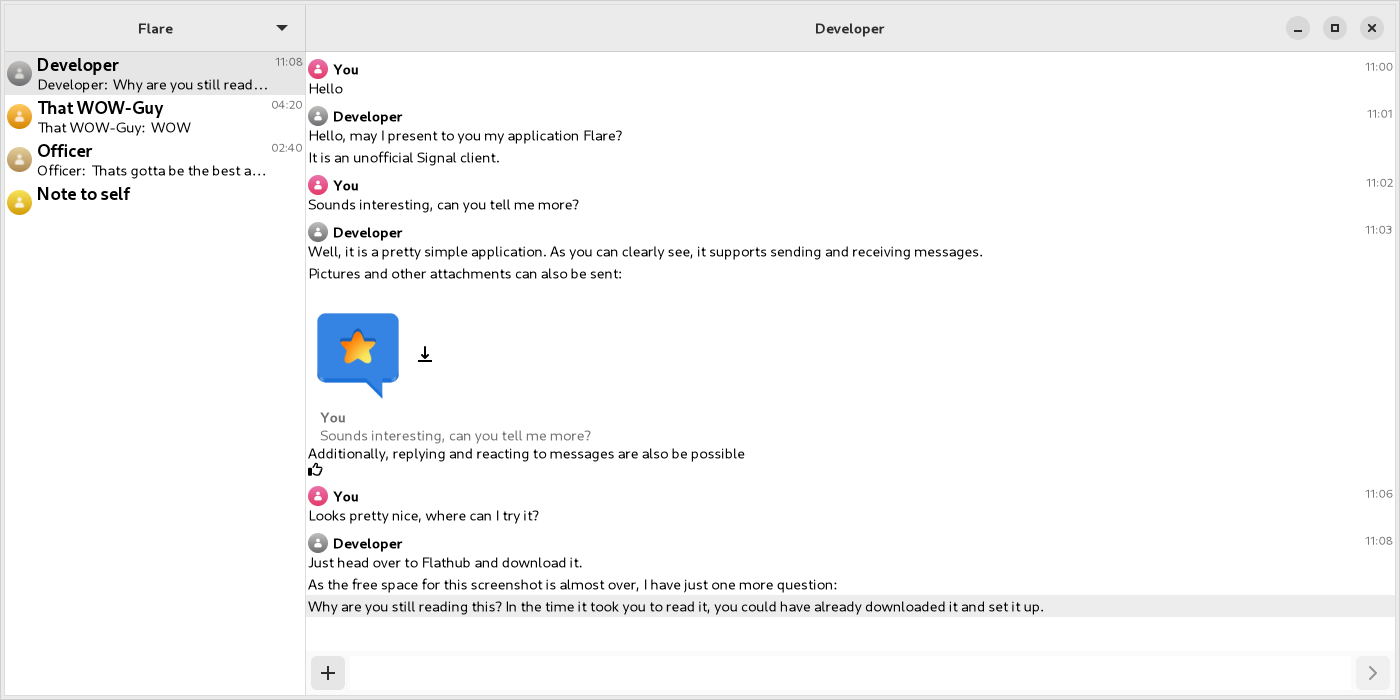
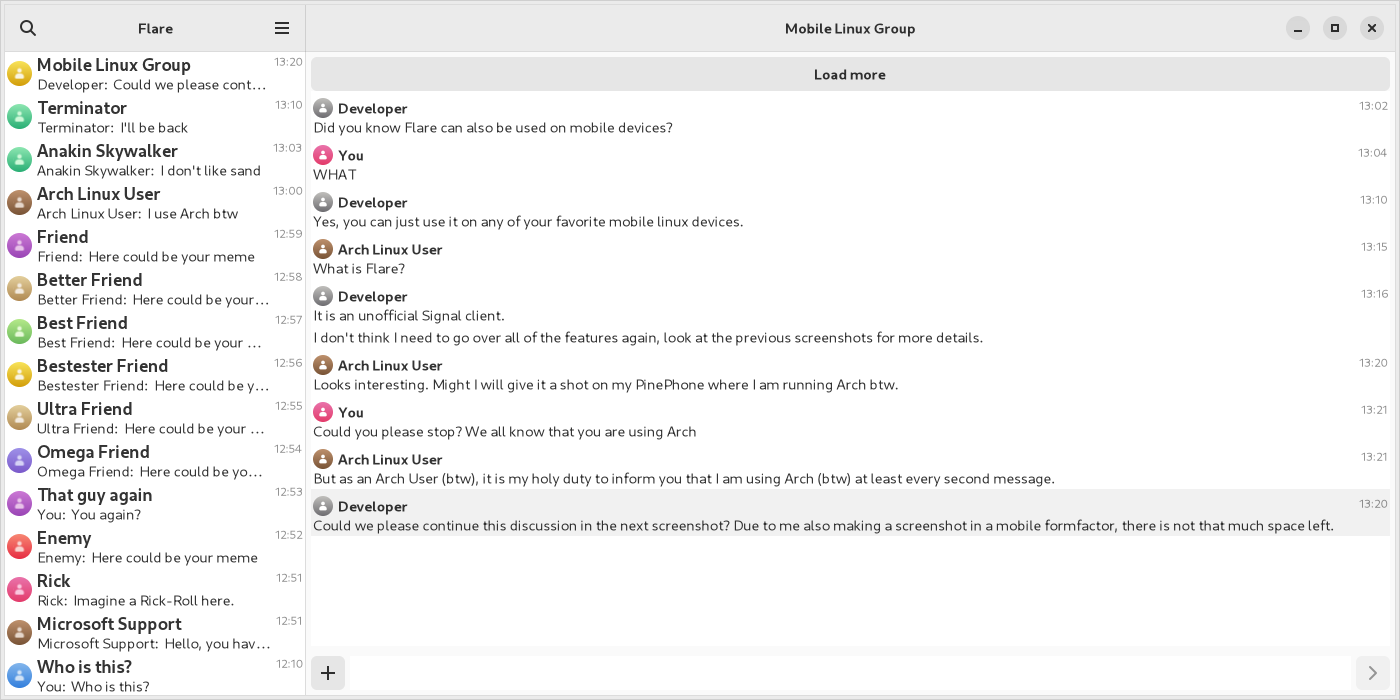
doc(): New screenshot

diff --git a/src/backend/dummy.rs b/src/backend/dummy.rs
@@ -2,10 +2,12 @@ use std::path::Path;
 
 use gdk::{prelude::ObjectExt, subclass::prelude::ObjectSubclassIsExt};
 use presage::prelude::*;
-use libsignal_service::sender::AttachmentUploadError;
+use libsignal_service::{prelude::AttachmentPointer, sender::AttachmentUploadError, groups_v2::Group};
 use glib::DateTime;
 
 use super::{Channel, Contact, Message};
+
+const GROUP_ID: usize = 16;
 
 macro_rules! msg {
     ($s:expr, $m:expr, $i:expr, $j:expr, $t:expr) => {
@@ -46,7 +48,7 @@ pub fn dummy_presage_contacts() -> Vec<presage::prelude::Contact> {
                 phonenumber: None,
                 relay: None,
             },
-            name: "Developer".to_string(),
+            name: "Arch Linux User".to_string(),
             color: None,
             verified: Default::default(),
             profile_key: vec![],
@@ -62,7 +64,7 @@ pub fn dummy_presage_contacts() -> Vec<presage::prelude::Contact> {
                 phonenumber: None,
                 relay: None,
             },
-            name: "Officer".to_string(),
+            name: "Developer".to_string(),
             color: None,
             verified: Default::default(),
             profile_key: vec![],
@@ -78,7 +80,199 @@ pub fn dummy_presage_contacts() -> Vec<presage::prelude::Contact> {
                 phonenumber: None,
                 relay: None,
             },
-            name: "That WOW-Guy".to_string(),
+            name: "Anakin Skywalker".to_string(),
+            color: None,
+            verified: Default::default(),
+            profile_key: vec![],
+            blocked: false,
+            expire_timer: 0,
+            inbox_position: 0,
+            archived: false,
+            avatar: None,
+        },
+        presage::prelude::Contact {
+            address: presage::prelude::ServiceAddress {
+                uuid: Some(Uuid::from_u128(4)),
+                phonenumber: None,
+                relay: None,
+            },
+            name: "Terminator".to_string(),
+            color: None,
+            verified: Default::default(),
+            profile_key: vec![],
+            blocked: false,
+            expire_timer: 0,
+            inbox_position: 0,
+            archived: false,
+            avatar: None,
+        },
+        presage::prelude::Contact {
+            address: presage::prelude::ServiceAddress {
+                uuid: Some(Uuid::from_u128(5)),
+                phonenumber: None,
+                relay: None,
+            },
+            name: "Friend".to_string(),
+            color: None,
+            verified: Default::default(),
+            profile_key: vec![],
+            blocked: false,
+            expire_timer: 0,
+            inbox_position: 0,
+            archived: false,
+            avatar: None,
+        },
+        presage::prelude::Contact {
+            address: presage::prelude::ServiceAddress {
+                uuid: Some(Uuid::from_u128(6)),
+                phonenumber: None,
+                relay: None,
+            },
+            name: "Better Friend".to_string(),
+            color: None,
+            verified: Default::default(),
+            profile_key: vec![],
+            blocked: false,
+            expire_timer: 0,
+            inbox_position: 0,
+            archived: false,
+            avatar: None,
+        },
+        presage::prelude::Contact {
+            address: presage::prelude::ServiceAddress {
+                uuid: Some(Uuid::from_u128(7)),
+                phonenumber: None,
+                relay: None,
+            },
+            name: "Best Friend".to_string(),
+            color: None,
+            verified: Default::default(),
+            profile_key: vec![],
+            blocked: false,
+            expire_timer: 0,
+            inbox_position: 0,
+            archived: false,
+            avatar: None,
+        },
+        presage::prelude::Contact {
+            address: presage::prelude::ServiceAddress {
+                uuid: Some(Uuid::from_u128(8)),
+                phonenumber: None,
+                relay: None,
+            },
+            name: "Bestester Friend".to_string(),
+            color: None,
+            verified: Default::default(),
+            profile_key: vec![],
+            blocked: false,
+            expire_timer: 0,
+            inbox_position: 0,
+            archived: false,
+            avatar: None,
+        },
+        presage::prelude::Contact {
+            address: presage::prelude::ServiceAddress {
+                uuid: Some(Uuid::from_u128(9)),
+                phonenumber: None,
+                relay: None,
+            },
+            name: "Ultra Friend".to_string(),
+            color: None,
+            verified: Default::default(),
+            profile_key: vec![],
+            blocked: false,
+            expire_timer: 0,
+            inbox_position: 0,
+            archived: false,
+            avatar: None,
+        },
+        presage::prelude::Contact {
+            address: presage::prelude::ServiceAddress {
+                uuid: Some(Uuid::from_u128(10)),
+                phonenumber: None,
+                relay: None,
+            },
+            name: "Omega Friend".to_string(),
+            color: None,
+            verified: Default::default(),
+            profile_key: vec![],
+            blocked: false,
+            expire_timer: 0,
+            inbox_position: 0,
+            archived: false,
+            avatar: None,
+        },
+        presage::prelude::Contact {
+            address: presage::prelude::ServiceAddress {
+                uuid: Some(Uuid::from_u128(11)),
+                phonenumber: None,
+                relay: None,
+            },
+            name: "That guy again".to_string(),
+            color: None,
+            verified: Default::default(),
+            profile_key: vec![],
+            blocked: false,
+            expire_timer: 0,
+            inbox_position: 0,
+            archived: false,
+            avatar: None,
+        },
+        presage::prelude::Contact {
+            address: presage::prelude::ServiceAddress {
+                uuid: Some(Uuid::from_u128(12)),
+                phonenumber: None,
+                relay: None,
+            },
+            name: "Enemy".to_string(),
+            color: None,
+            verified: Default::default(),
+            profile_key: vec![],
+            blocked: false,
+            expire_timer: 0,
+            inbox_position: 0,
+            archived: false,
+            avatar: None,
+        },
+        presage::prelude::Contact {
+            address: presage::prelude::ServiceAddress {
+                uuid: Some(Uuid::from_u128(13)),
+                phonenumber: None,
+                relay: None,
+            },
+            name: "Rick".to_string(),
+            color: None,
+            verified: Default::default(),
+            profile_key: vec![],
+            blocked: false,
+            expire_timer: 0,
+            inbox_position: 0,
+            archived: false,
+            avatar: None,
+        },
+        presage::prelude::Contact {
+            address: presage::prelude::ServiceAddress {
+                uuid: Some(Uuid::from_u128(14)),
+                phonenumber: None,
+                relay: None,
+            },
+            name: "Microsoft Support".to_string(),
+            color: None,
+            verified: Default::default(),
+            profile_key: vec![],
+            blocked: false,
+            expire_timer: 0,
+            inbox_position: 0,
+            archived: false,
+            avatar: None,
+        },
+        presage::prelude::Contact {
+            address: presage::prelude::ServiceAddress {
+                uuid: Some(Uuid::from_u128(15)),
+                phonenumber: None,
+                relay: None,
+            },
+            name: "Who is this?".to_string(),
             color: None,
             verified: Default::default(),
             profile_key: vec![],
@@ -140,31 +334,42 @@ impl super::Manager {
         let now = DateTime::now_utc().expect("Now to be expressable as DateTime");
         let base_time = DateTime::from_utc(now.year(), now.month(), now.day_of_month(), 11, 0, 0.0).expect("Base time to be expressable as DateTime");
         let base_minute: u64 = (base_time.to_unix() / 60).try_into().unwrap();
-        let msg_replied = msg!(self, "Sounds interesting, can you tell me more?", 0, 2 + base_minute);
-        let msg_reply = msg!(self, "Additionally, replying and reacting to messages are also be possible", 1, 5 + base_minute);
-        msg_reply.set_quote(msg_replied.clone());
-        msg_reply.react("👍");
-
-        let msg_screenshot = msg!(self, "", 1, 4 + base_minute);
-        let screenshot_file = gio::File::for_uri("resource:///icon.png");
-        let attachment = crate::backend::Attachment::from_file(screenshot_file, self);
-        msg_screenshot.add_attachment(attachment).await.expect("Failed to add attachment");
-
+        // let msg_replied = msg!(self, "Sounds interesting, can you tell me more?", 0, 2 + base_minute);
+        // let msg_reply = msg!(self, "Additionally, replying and reacting to messages are also be possible", 1, 5 + base_minute);
+        // msg_reply.set_quote(msg_replied.clone());
+        // msg_reply.react("👍");
+        //
+        // let msg_screenshot = msg!(self, "", 1, 4 + base_minute);
+        // let screenshot_file = gio::File::for_uri("resource:///icon.png");
+        // let attachment = crate::backend::Attachment::from_file(screenshot_file, self);
+        // msg_screenshot.add_attachment(attachment).await.expect("Failed to add attachment");
         vec![
-            msg!(self, "Hello", 0, 0 + base_minute),
-            msg!(self, "Hello, may I present to you my application Flare?", 1, 1 + base_minute),
-            msg!(self, "It is an unofficial Signal client.", 1, 1 + base_minute),
-            msg_replied,
-            msg!(self, "Well, it is a pretty simple application. As you can clearly see, it supports sending and receiving messages.", 1, 3 + base_minute),
-            msg!(self, "Pictures and other attachments can also be sent:", 1, 4 + base_minute),
-            msg_screenshot,
-            msg_reply,
-            msg!(self, "Looks pretty nice, where can I try it?", 0, 6 + base_minute),
-            msg!(self, "Just head over to Flathub and download it.", 1, 8 + base_minute),
-            msg!(self, "As the free space for this screenshot is almost over, I have just one more question: ", 1, 8 + base_minute),
-            msg!(self, "Why are you still reading this? In the time it took you to read it, you could have already downloaded it and set it up.", 1, 8 + base_minute),
-            msg!(self, "Thats gotta be the best application I've ever seen", 2, 2, base_minute - 100),
-            msg!(self, "WOW", 3, 3, base_minute - 200),
+            msg!(self, "I use Arch btw", 1, 1, 0 + base_minute),
+            msg!(self, "Did you know Flare can also be used on mobile devices?", 2, GROUP_ID, 2 + base_minute),
+            msg!(self, "WHAT", 0, GROUP_ID, 4 + base_minute),
+            msg!(self, "Yes, you can just use it on any of your favorite mobile linux devices.", 2, GROUP_ID, 10 + base_minute),
+            msg!(self, "What is Flare?", 1, GROUP_ID, 15 + base_minute),
+            msg!(self, "It is an unofficial Signal client.", 2, GROUP_ID, 16 + base_minute),
+            msg!(self, "I don't think I need to go over all of the features again, look at the previous screenshots for more details.", 2, GROUP_ID, 16 + base_minute),
+            msg!(self, "Looks interesting. Might I will give it a shot on my PinePhone where I am running Arch btw.", 1, GROUP_ID, 20 + base_minute),
+            msg!(self, "Could you please stop? We all know that you are using Arch", 0, GROUP_ID, 21 + base_minute),
+            msg!(self, "But as an Arch User (btw), it is my holy duty to inform you that I am using Arch (btw) at least every second message.", 1, GROUP_ID, 21 + base_minute),
+            msg!(self, "Could we please continue this discussion in the next screenshot? Due to me also making a screenshot in a mobile formfactor, there is not that much space left.", 2, GROUP_ID, 20 + base_minute),
+
+            msg!(self, "I don't like sand", 3, 3, base_minute + 3),
+            msg!(self, "I'll be back", 4, 4, base_minute + 10),
+
+            msg!(self, "Here could be your meme", 5, 5, base_minute - 1),
+            msg!(self, "Here could be your meme", 6, 6, base_minute - 2),
+            msg!(self, "Here could be your meme", 7, 7, base_minute - 3),
+            msg!(self, "Here could be your meme", 8, 8, base_minute - 4),
+            msg!(self, "Here could be your meme", 9, 9, base_minute - 5),
+            msg!(self, "Here could be your meme", 10, 10, base_minute - 6),
+            msg!(self, "You again?", 0, 11, base_minute - 7),
+            msg!(self, "Here could be your meme", 12, 12, base_minute - 8),
+            msg!(self, "Imagine a Rick-Roll here.", 13, 13, base_minute - 9),
+            msg!(self, "Hello, you have 10 virus. Please click link.", 14, 14, base_minute - 9),
+            msg!(self, "Who is this?", 0, 15, base_minute - 50),
         ]
     }
 
@@ -182,12 +387,27 @@ impl super::Manager {
         for con in self.dummy_contacts() {
             result.push(Channel::from_contact_or_group(con, &None, self).await);
         }
+        result.push(Channel::from_group(Group {
+            title: "Mobile Linux Group".to_string(),
+            avatar: "".to_string(),
+            disappearing_messages_timer: None,
+            access_control: None,
+            version: 0,
+            members: vec![],
+            pending_members: vec![],
+            requesting_members: vec![],
+            invite_link_password: vec![],
+            description: None,
+        }, &GroupContextV2 {
+            master_key: Some(vec![2]),
+            revision: None,
+            group_change: None
+        }, self).await);
         result
     }
 
     #[cfg(feature = "screenshot")]
     pub async fn init_channels(&self) {
-
         for channel in self.dummy_channels().await {
             self.emit_by_name::<()>("channel", &[&channel]);
             let mut channels = self.imp().channels.borrow_mut();
